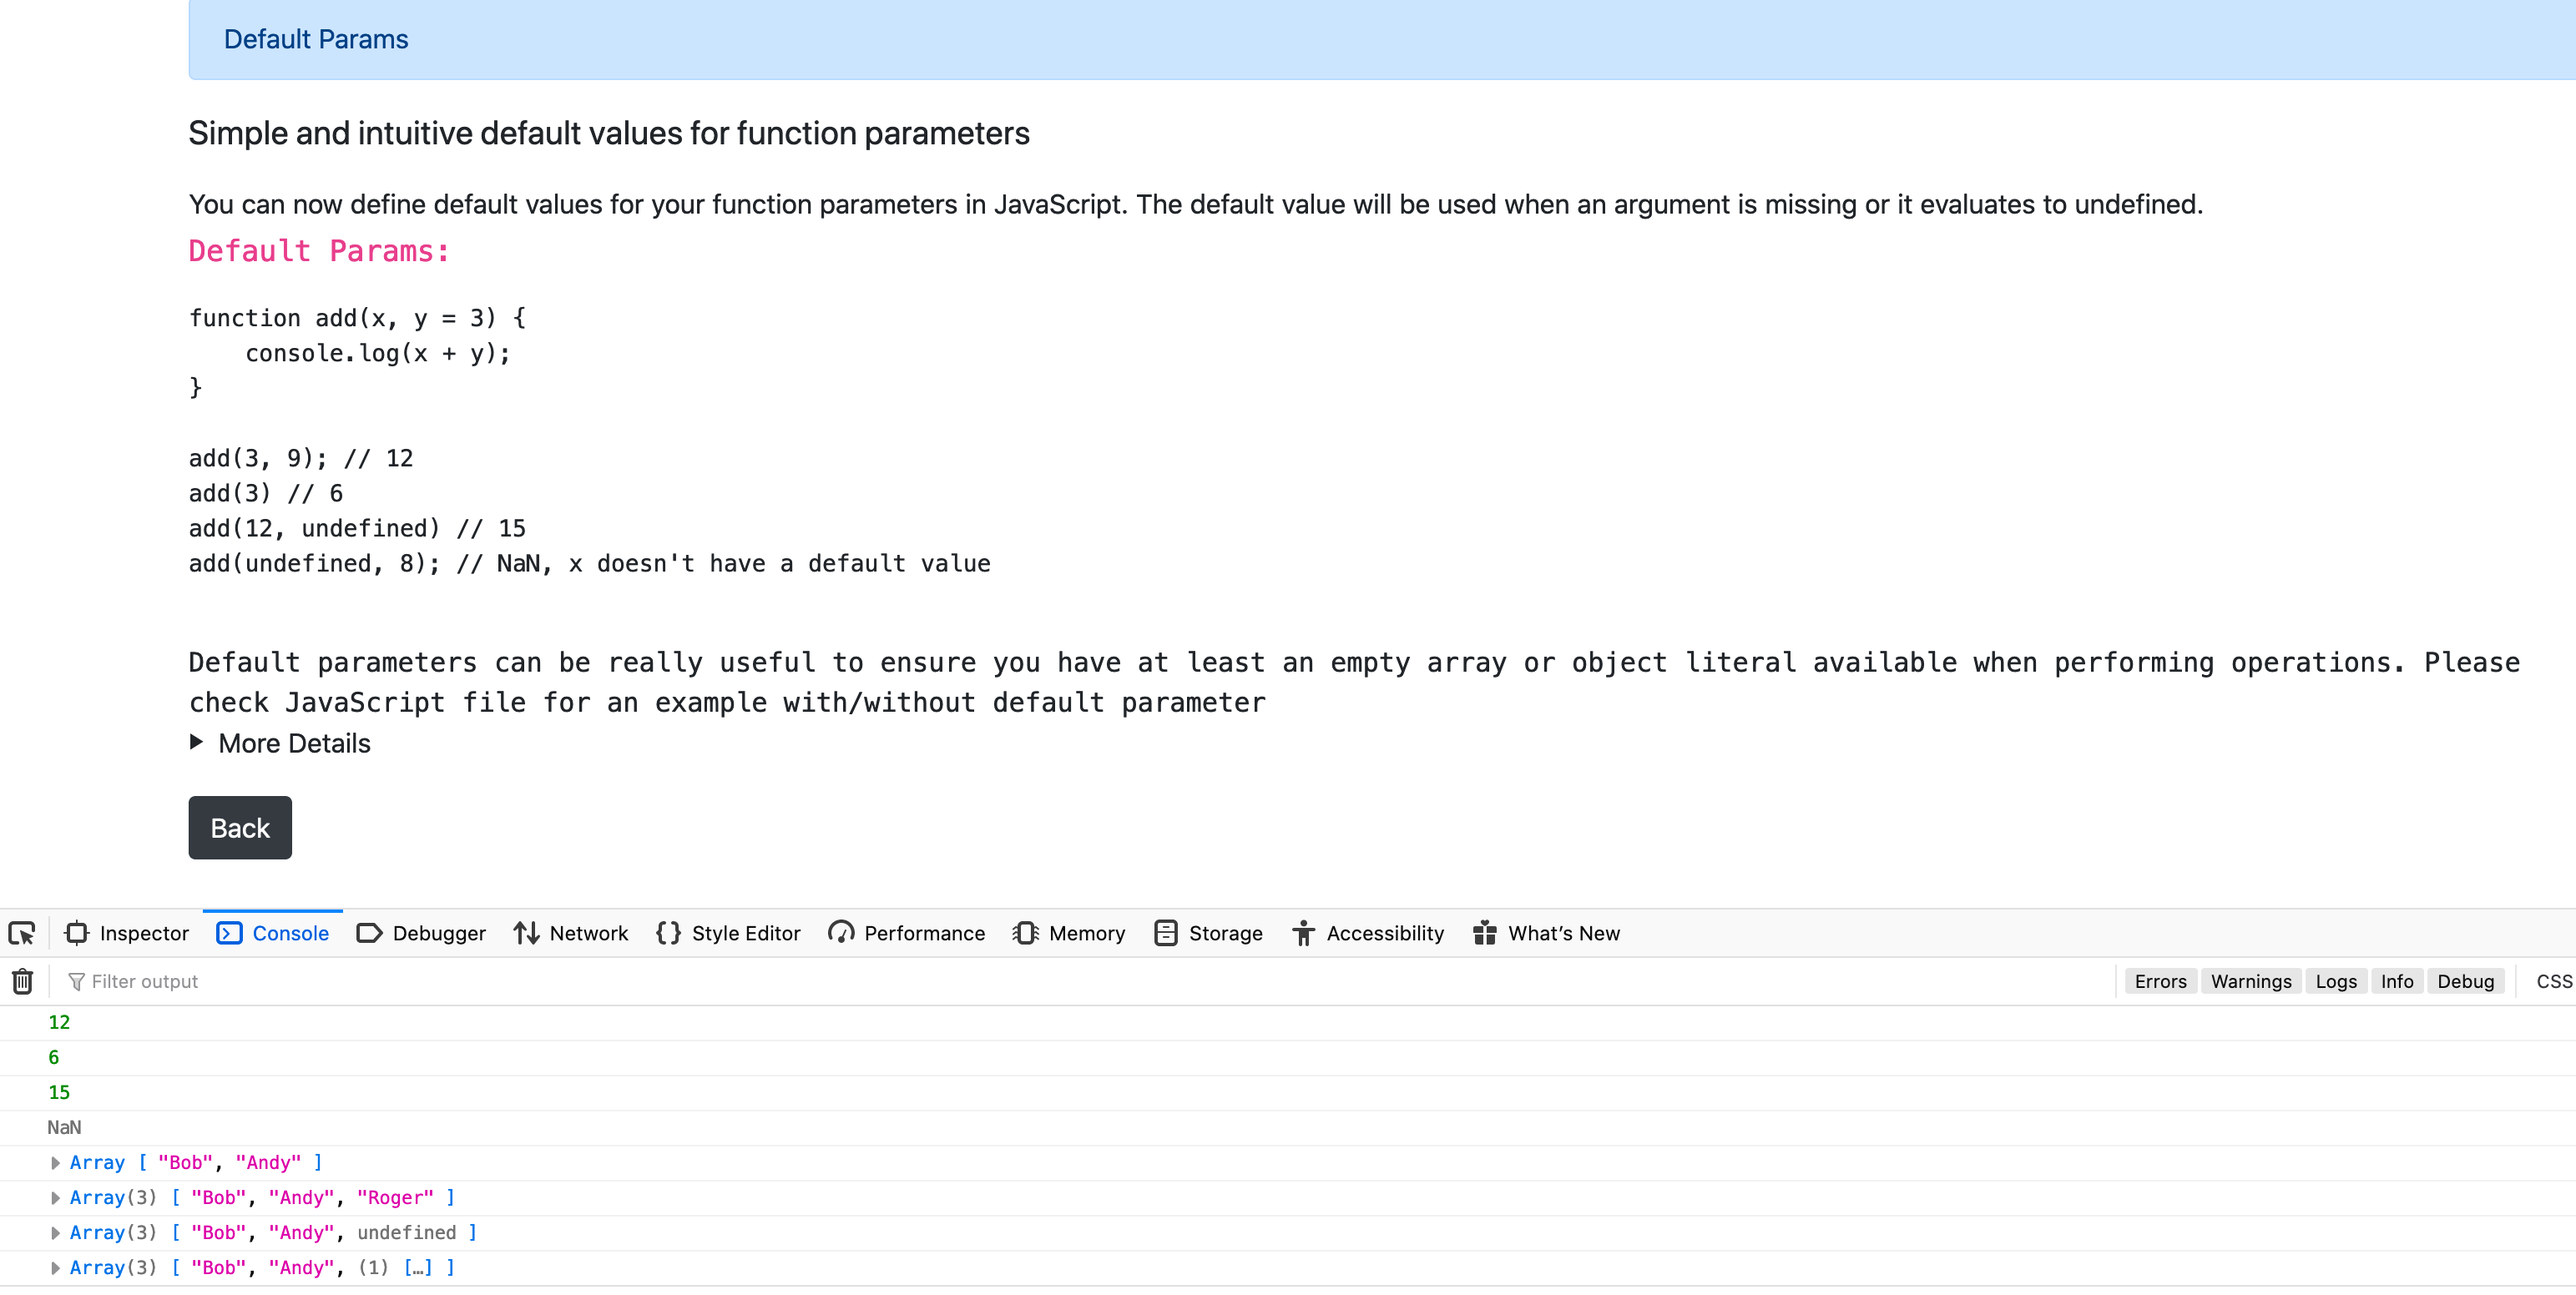
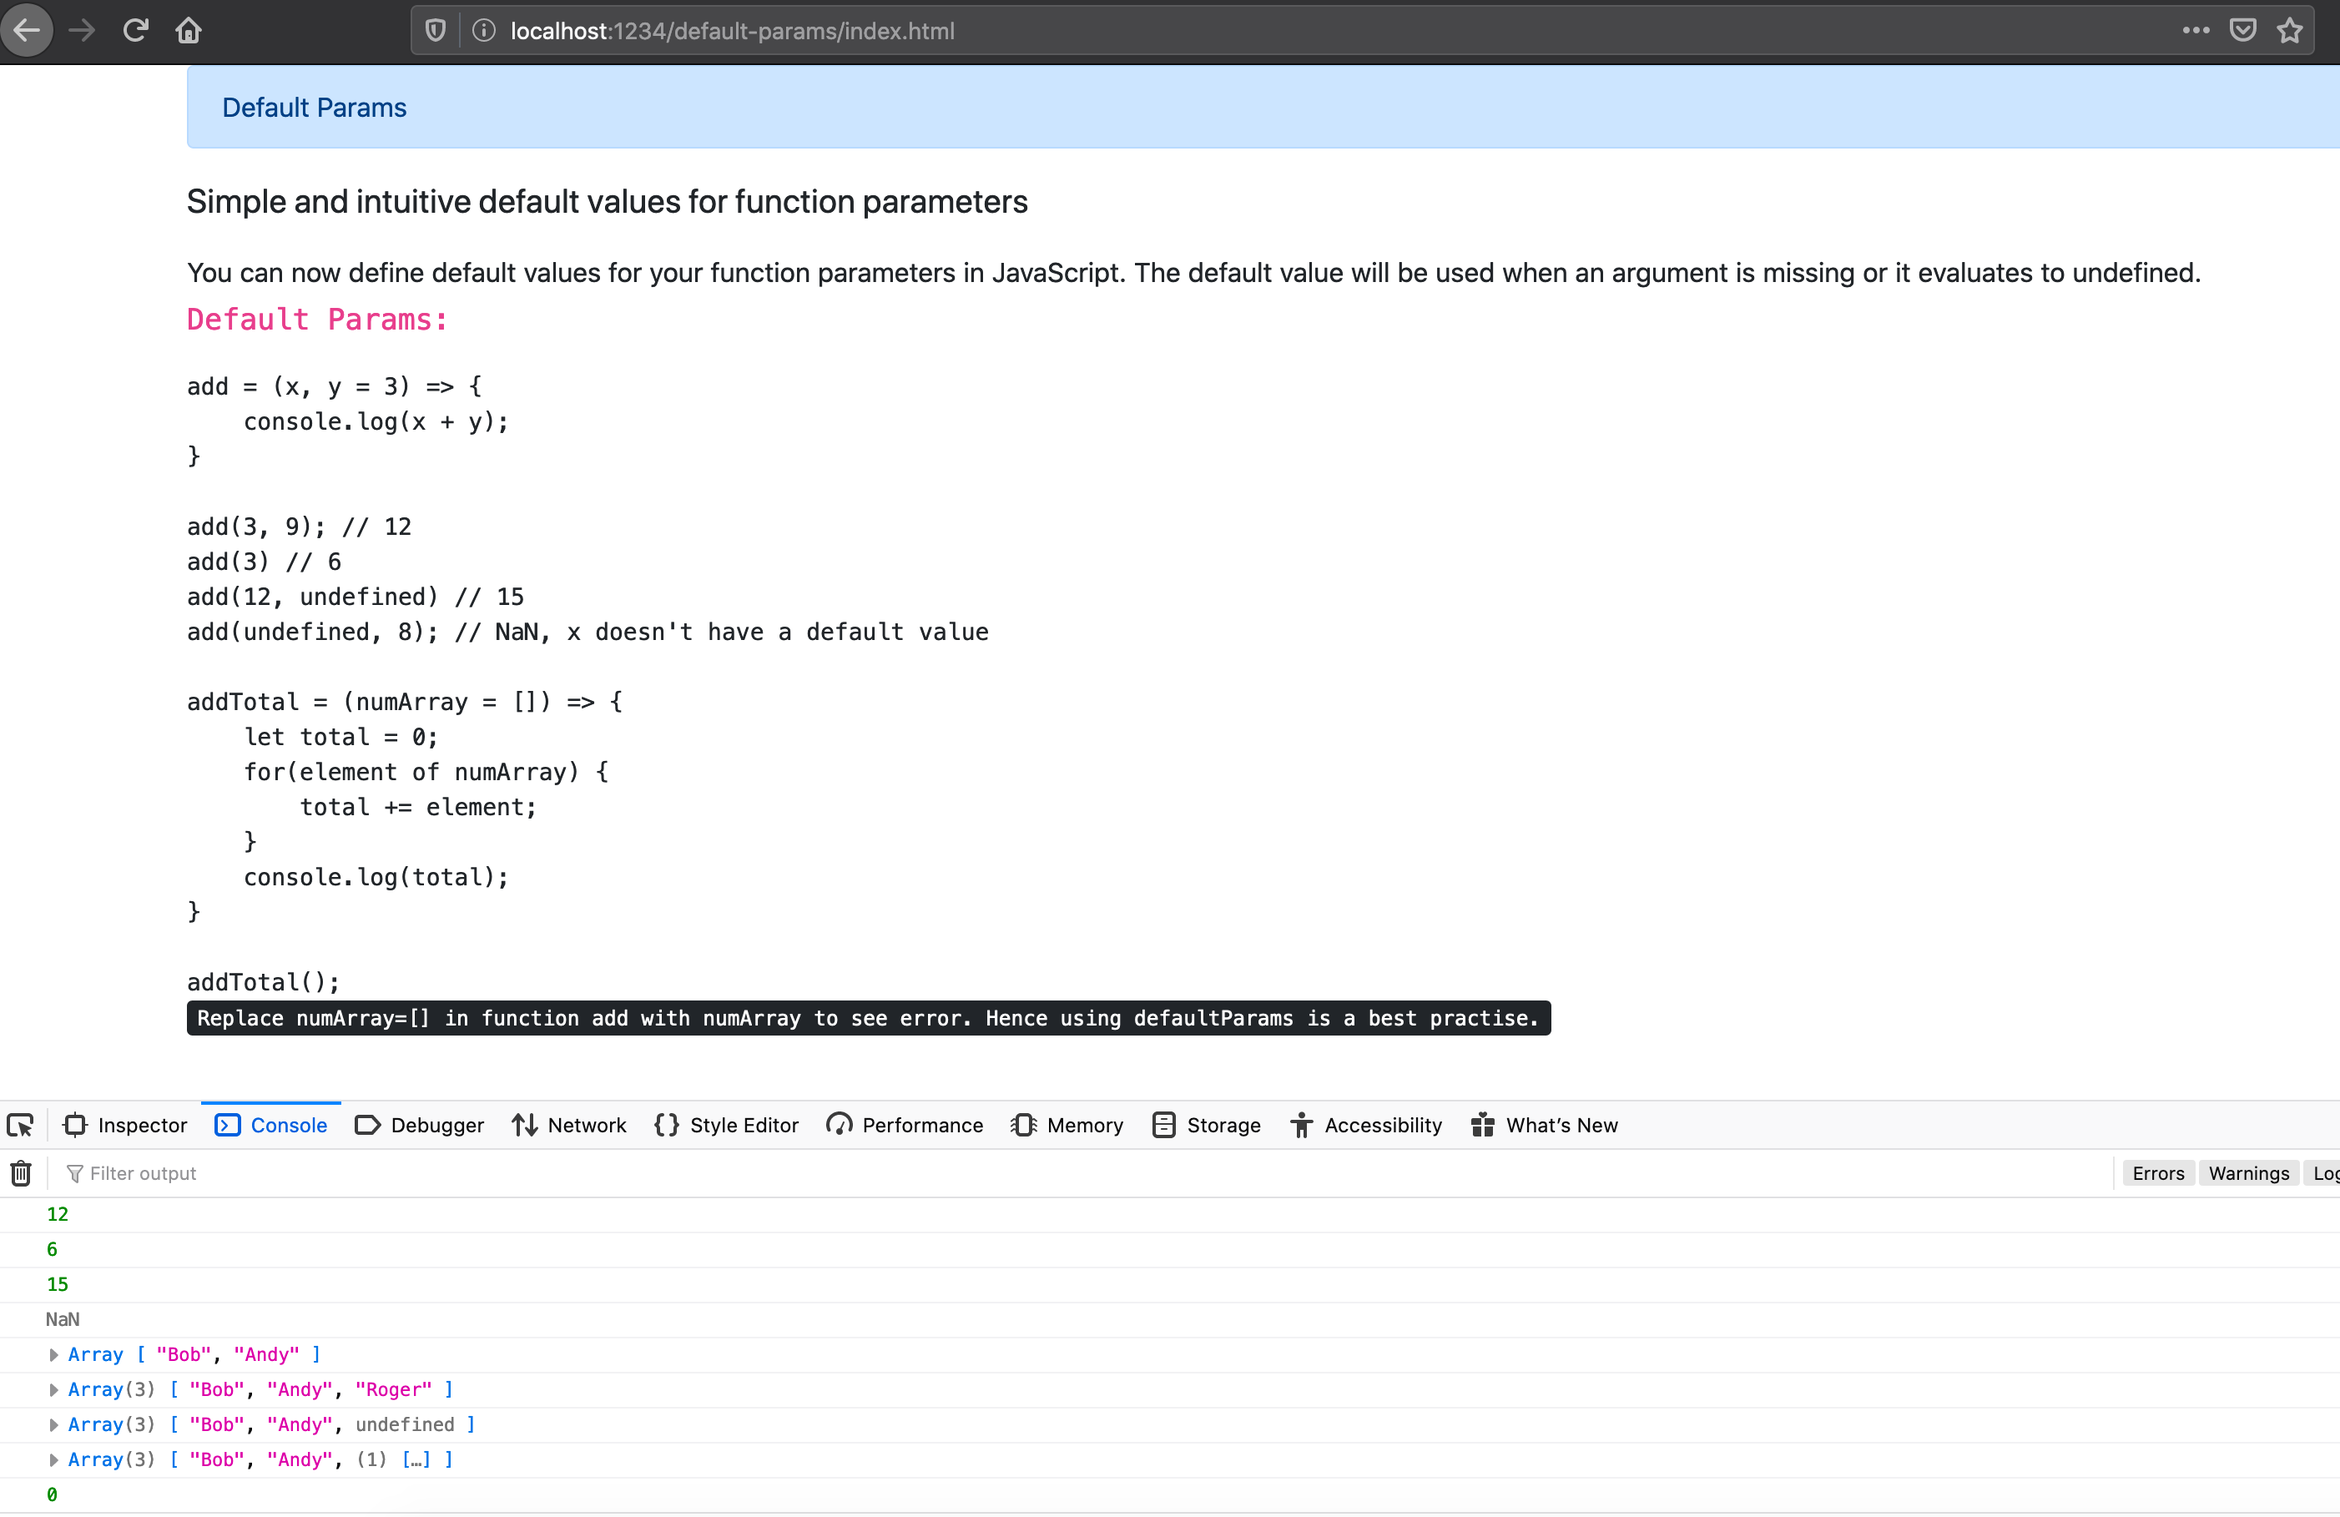
minor tweaks

diff --git a/default-params/index.js b/default-params/index.js
@@ -1,4 +1,4 @@
-function add(x, y = 3) {
+add = (x, y = 3) => {
     console.log(x + y);
 }
     
@@ -22,5 +22,16 @@ function addToGuestListWithoutDefault(guests, list) {
   
 addToGuestListWithoutDefault(['Bob', 'Andy']); // ['Bob', 'Andy', undefined]
 addToGuestListWithoutDefault(['Bob', 'Andy'], ['Roger']); // ['Bob', 'Andy', Roger]
+
+//below example will throw error if you do not pass default params. Replace numArray=[] with numArray to see error. Hence using defaultParams is a best practise.
+addTotal = (numArray = []) => {
+    let total = 0;
+    for(element of numArray) {
+        total += element;
+    }
+    console.log(total);
+}
+
+addTotal();
   
   

diff --git a/default-params/index.html b/default-params/index.html
@@ -30,7 +30,7 @@
                Default Params:
             </code> <br/>
         <pre>
-function add(x, y = 3) {
+add = (x, y = 3) => {
     console.log(x + y);
 }
     
@@ -38,6 +38,17 @@ add(3, 9); // 12
 add(3) // 6
 add(12, undefined) // 15
 add(undefined, 8); // NaN, x doesn't have a default value
+
+addTotal = (numArray = []) => {
+    let total = 0;
+    for(element of numArray) {
+        total += element;
+    }
+    console.log(total);
+}
+
+addTotal();
+<kbd>Replace numArray=[] in function add with numArray to see error. Hence using defaultParams is a best practise.</kbd>
         </pre>
         </p>
         </div>

diff --git a/README.md b/README.md
@@ -19,4 +19,4 @@ ___
 7. Spread Operator
 8. Rest Parameter/ Rest Operator
 9. Arrow Functions
-10.Default Params
+10. Default Params
